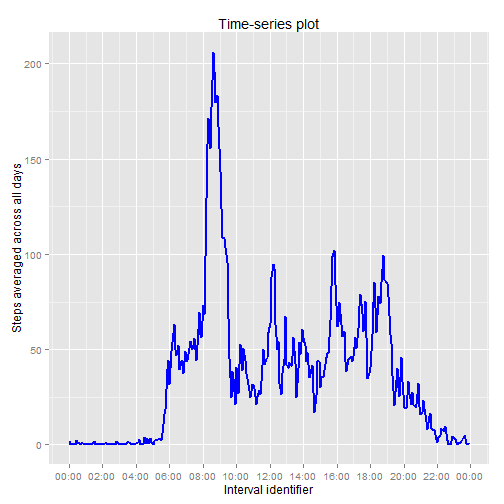
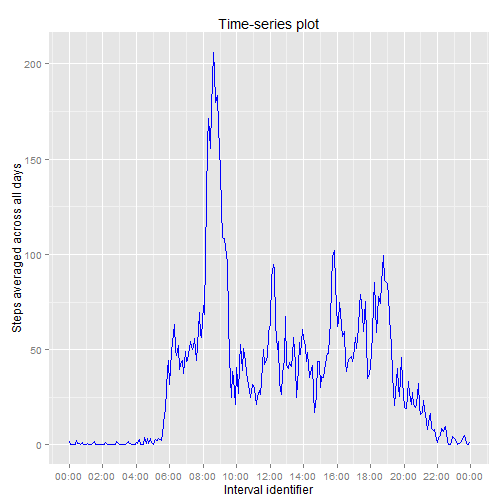
submission

diff --git a/PA1_template.html b/PA1_template.html
@@ -341,10 +341,10 @@ mean_steps_2 &lt;- summarise(by_interval, steps_mean_interval = mean(steps,na.rm
 mean_steps_interval &lt;- select(mean_steps_2, steps_mean_interval)
 
 h &lt;- ggplot(data = mean_steps_2, aes(x = mean_steps_2$interval_dummy, y = mean_steps_2$steps_mean_interval))
-h + geom_line(col = &quot;blue&quot;, size = 0.75) + labs(title = &quot;Time-series plot&quot;) + labs(x = &quot;Interval identifier&quot;, y = &quot;Steps averaged across all days&quot;) + scale_x_datetime(labels = date_format(&quot;%H:%M&quot;), breaks = date_breaks(&quot;2 hour&quot;))
+h + geom_line(col = &quot;blue&quot;, size = 0.5) + labs(title = &quot;Time-series plot&quot;) + labs(x = &quot;Interval identifier&quot;, y = &quot;Steps averaged across all days&quot;) + scale_x_datetime(labels = date_format(&quot;%H:%M&quot;), breaks = date_breaks(&quot;2 hour&quot;))
 </code></pre>
 
[2 lines of base64/hex data omitted]
 
 <h3>Part 2: Finding the interval with the maximum mean steps</h3>
 
@@ -428,9 +428,8 @@ total_steps_df_na_filled
 
 <h4>Plotting histogram of total steps per day for imputed data</h4>
 
-<pre><code class="r">range &lt;- max(total_steps_na_filled$steps_tot) - min(total_steps_na_filled$steps_tot)
-i &lt;- ggplot(data = total_steps_na_filled, aes(total_steps_na_filled$steps_tot))
-i + geom_histogram(binwidth = range/30 ,col = &quot;white&quot;,fill = &quot;blue&quot;) + labs(title = &quot;Histogram for total steps per day for new dataset&quot;) + labs(x = &quot;Total steps per day&quot;, y = &quot;Count of days&quot;)
+<pre><code class="r">i &lt;- ggplot(data = total_steps_na_filled, aes(total_steps_na_filled$steps_tot))
+i + geom_histogram(col = &quot;white&quot;,fill = &quot;blue&quot;) + labs(title = &quot;Histogram for total steps per day for new dataset&quot;) + labs(x = &quot;Total steps per day&quot;, y = &quot;Count of days&quot;)
 </code></pre>
 
[1 lines of base64/hex data omitted]
@@ -492,10 +491,10 @@ weekpos_df &lt;- select(weekpos_df, -day)
 total_steps_weekpos &lt;- summarise(by_interval_weekpos, steps_day_weekpos = mean(steps))
 
 j &lt;- ggplot(data = total_steps_weekpos, aes(x = interval_dummy, y = steps_day_weekpos))
-j + geom_line(color = &quot;blue&quot;, size = 0.75) + facet_grid(week_day_position~.) + scale_x_datetime(labels = date_format(&quot;%H:%M&quot;), breaks = date_breaks(&quot;2 hour&quot;)) + labs(title = &quot;Time-series plot&quot;) + labs(x = &quot;Interval identifier&quot;, y = &quot;Steps averaged across all days&quot;)
+j + geom_line(color = &quot;blue&quot;, size = 0.5) + facet_grid(week_day_position~.) + scale_x_datetime(labels = date_format(&quot;%H:%M&quot;), breaks = date_breaks(&quot;2 hour&quot;)) + labs(title = &quot;Time-series plot&quot;) + labs(x = &quot;Interval identifier&quot;, y = &quot;Steps averaged across all days&quot;)
 </code></pre>
 
[2 lines of base64/hex data omitted]
 
 <h4>Differences between activity pattern for weekdays and weekends</h4>
 

diff --git a/PA1_template.md b/PA1_template.md
@@ -162,7 +162,7 @@ mean_steps_2 <- summarise(by_interval, steps_mean_interval = mean(steps,na.rm = 
 mean_steps_interval <- select(mean_steps_2, steps_mean_interval)
 
 h <- ggplot(data = mean_steps_2, aes(x = mean_steps_2$interval_dummy, y = mean_steps_2$steps_mean_interval))
-h + geom_line(col = "blue", size = 0.75) + labs(title = "Time-series plot") + labs(x = "Interval identifier", y = "Steps averaged across all days") + scale_x_datetime(labels = date_format("%H:%M"), breaks = date_breaks("2 hour"))
+h + geom_line(col = "blue", size = 0.5) + labs(title = "Time-series plot") + labs(x = "Interval identifier", y = "Steps averaged across all days") + scale_x_datetime(labels = date_format("%H:%M"), breaks = date_breaks("2 hour"))
 ```
 
 ![plot of chunk unnamed-chunk-7](figure/unnamed-chunk-7-1.png) 
@@ -265,9 +265,8 @@ total_steps_na_filled <- select(total_steps_df_na_filled,steps_tot)
 
 
 ```r
-range <- max(total_steps_na_filled$steps_tot) - min(total_steps_na_filled$steps_tot)
 i <- ggplot(data = total_steps_na_filled, aes(total_steps_na_filled$steps_tot))
-i + geom_histogram(binwidth = range/30 ,col = "white",fill = "blue") + labs(title = "Histogram for total steps per day for new dataset") + labs(x = "Total steps per day", y = "Count of days")
+i + geom_histogram(col = "white",fill = "blue") + labs(title = "Histogram for total steps per day for new dataset") + labs(x = "Total steps per day", y = "Count of days")
 ```
 
 ![plot of chunk unnamed-chunk-13](figure/unnamed-chunk-13-1.png) 
@@ -338,7 +337,7 @@ by_interval_weekpos <- group_by(weekpos_df, week_day_position, interval_dummy)
 total_steps_weekpos <- summarise(by_interval_weekpos, steps_day_weekpos = mean(steps))
 
 j <- ggplot(data = total_steps_weekpos, aes(x = interval_dummy, y = steps_day_weekpos))
-j + geom_line(color = "blue", size = 0.75) + facet_grid(week_day_position~.) + scale_x_datetime(labels = date_format("%H:%M"), breaks = date_breaks("2 hour")) + labs(title = "Time-series plot") + labs(x = "Interval identifier", y = "Steps averaged across all days")
+j + geom_line(color = "blue", size = 0.5) + facet_grid(week_day_position~.) + scale_x_datetime(labels = date_format("%H:%M"), breaks = date_breaks("2 hour")) + labs(title = "Time-series plot") + labs(x = "Interval identifier", y = "Steps averaged across all days")
 ```
 
 ![plot of chunk unnamed-chunk-16](figure/unnamed-chunk-16-1.png) 
